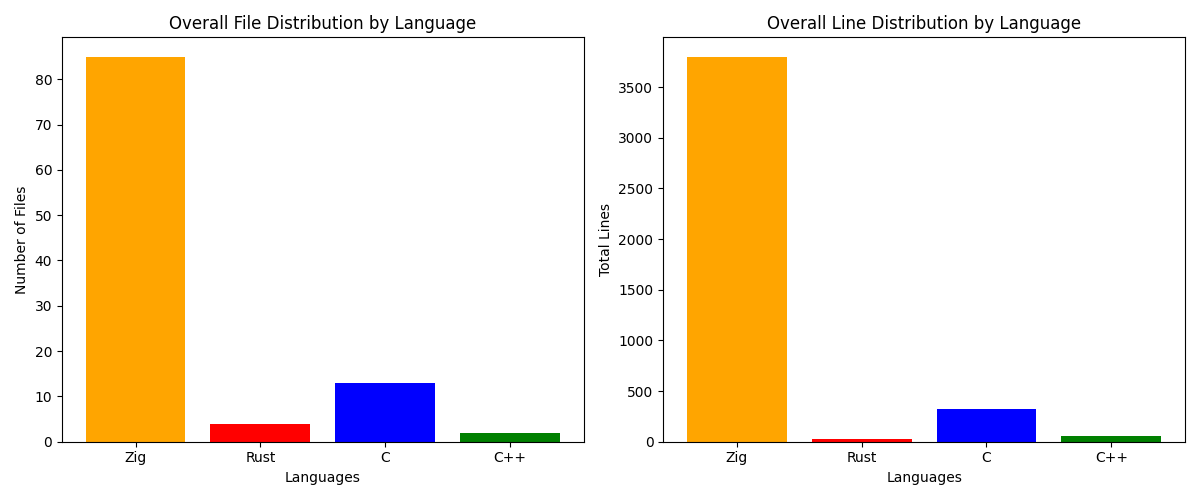
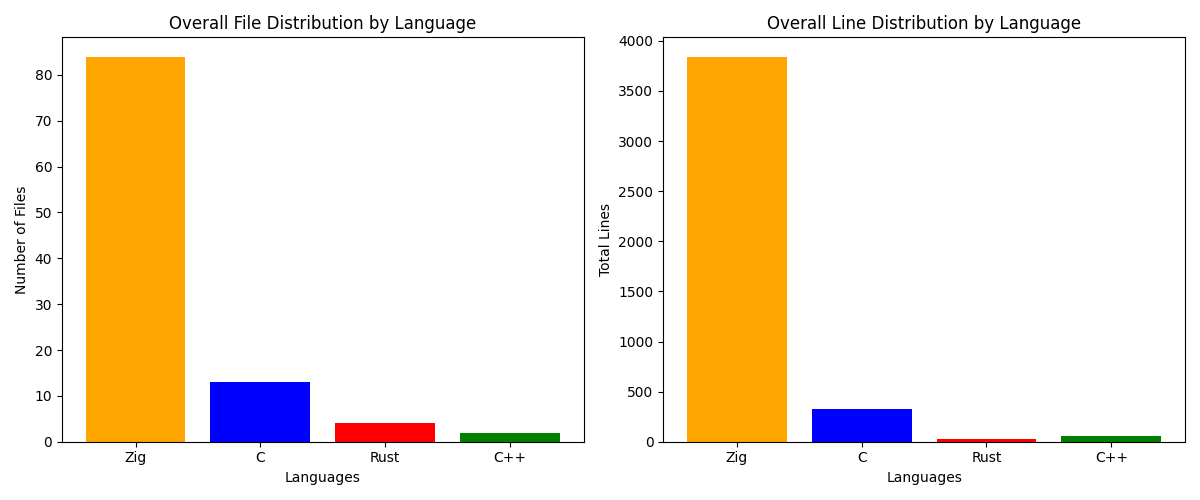
fixed readme

diff --git a/readme.py b/readme.py
@@ -74,18 +74,41 @@ def get_language(file_name):
         return "Rust"
     else:
         return "Unknown"
+    
+def is_cargo_project(directory):
+    cargo_toml_path = os.path.join(directory, "Cargo.toml")
+    return os.path.exists(cargo_toml_path)
+
 
 def list_files_in_directory(directory, language_files):
     for root, _, files in os.walk(directory):
+        # Exclude zig-cache directory
+        if "zig-cache" in root:
+            continue
+
         for file_name in files:
             if file_name.lower() != "makefile":  # Ignore files named "Makefile" (case-insensitive)
                 file_path = os.path.join(root, file_name)
                 language = get_language(file_name)
-                if language != "Unknown":
+
+                # Check if it's a Zig project
+                if is_zig_project(directory) and language == "Zig" and (file_name == "build.zig" or "src" in root):
                     line_count = count_lines(file_path)
                     language_files.setdefault(language, {"files": 0, "lines": 0})
                     language_files[language]["files"] += 1
                     language_files[language]["lines"] += line_count
+                # Check if it's a Rust Cargo project
+                elif is_cargo_project(directory) and language == "Rust" and (file_name == "Cargo.toml" or "src" in root):
+                    line_count = count_lines(file_path)
+                    language_files.setdefault(language, {"files": 0, "lines": 0})
+                    language_files[language]["files"] += 1
+                    language_files[language]["lines"] += line_count
+                elif language != "Unknown":
+                    line_count = count_lines(file_path)
+                    language_files.setdefault(language, {"files": 0, "lines": 0})
+                    language_files[language]["files"] += 1
+                    language_files[language]["lines"] += line_count
+
 
 
 def process_ch_directories(base_directory):
@@ -93,28 +116,43 @@ def process_ch_directories(base_directory):
 
     overall_language_files = {}  # Dictionary to store overall file counts and line counts for each language
 
-    # Find and sort 'ch*' directories by numerical part
-    ch_directories = [d for d in os.listdir(base_directory) if os.path.isdir(os.path.join(base_directory, d))]
-    ch_directories.sort(key=lambda x: int(ch_pattern.match(x).group(1)) if ch_pattern.match(x) else 0)
+    # Initialize chapter_section before the loop
+    chapter_section = "\n\n# Statistics per Chapter\n\n"
 
-    total_files = 0
-    total_lines = 0
+    for chap_num in range(1, 10):
+        chapter = chapters_map.get(chap_num, "")
+        if if_exists(chap_num):
+            chapter_directory = f"ch0{chap_num}" if chap_num < 10 else f"ch{chap_num}"
+            chapter_language_files = {}
+            list_files_in_directory(chapter_directory, chapter_language_files)
 
-    for dir_name in ch_directories:
-        full_directory_path = os.path.join(base_directory, dir_name)
-        print(f"\nProcessing directory: {full_directory_path}")
+            # Calculate chapter statistics
+            chapter_total_files = sum(stats["files"] for stats in chapter_language_files.values())
+            chapter_total_lines = sum(stats["lines"] for stats in chapter_language_files.values())
 
-        if not is_zig_project(full_directory_path):
-            language_files = {}
-            list_files_in_directory(full_directory_path, language_files)
+            # Skip chapters with no files
+            if chapter_total_files > 0:
+                # Add chapter header to the section
+                chapter_section += f"\n## Chapter {chap_num}: {chapter}\n\n"
 
-            # Update overall file counts and line counts for each language
-            for language, stats in language_files.items():
-                overall_language_files.setdefault(language, {"files": 0, "lines": 0})
-                overall_language_files[language]["files"] += stats["files"]
-                overall_language_files[language]["lines"] += stats["lines"]
-                total_files += stats["files"]
-                total_lines += stats["lines"]
+                # Create a markdown table for chapter statistics
+                chapter_table_headers = ["Language", "Number of Files", "Total Lines"]
+                chapter_table_data = []
+
+                # Add language-wise statistics to the table
+                for language, stats in chapter_language_files.items():
+                    chapter_table_data.append([language, stats["files"], stats["lines"]])
+
+                    # Accumulate language statistics to overall_language_files
+                    overall_language_files.setdefault(language, {"files": 0, "lines": 0})
+                    overall_language_files[language]["files"] += stats["files"]
+                    overall_language_files[language]["lines"] += stats["lines"]
+
+                chapter_table_data.append(["**Total**", f'**{chapter_total_files}**', f'**{chapter_total_lines}**'])
+
+                # Add chapter table to the section
+                chapter_section += tabulate(chapter_table_data, headers=chapter_table_headers, tablefmt="pipe", showindex=False)
+                chapter_section += "\n\n"
 
     # Set up colors for each language
     language_colors = {
@@ -151,15 +189,6 @@ def process_ch_directories(base_directory):
     plt.savefig('statistics_plot.png')
     plt.close()
 
-    # Create a markdown table for statistics
-    table_headers = ["Language", "Number of Files", "Total Lines", "Percentage of Total Files", "Percentage of Total Lines"]
-    table_data = []
-    for language, stats in overall_language_files.items():
-        percentage_files = (stats["files"] / total_files) * 100 if total_files > 0 else 0
-        percentage_lines = (stats["lines"] / total_lines) * 100 if total_lines > 0 else 0
-        table_data.append([language, stats["files"], stats["lines"], f"{percentage_files:.2f}%", f"{percentage_lines:.2f}%"])
-
-    markdown_table = tabulate(table_data, headers=table_headers, tablefmt="github")
     with open('README.md', 'w') as readme:
         readme.write(header)
         for chap_num in range(1, 10):
@@ -172,8 +201,8 @@ def process_ch_directories(base_directory):
         readme.write("\n\n# Statistics\n\n")
         readme.write(f"## File and Line Distribution\n\n")
         readme.write(f"![File and Line Distribution Plot](statistics_plot.png)\n\n")
-        readme.write(f"## Table\n\n")
-        readme.write(markdown_table)
+        readme.write(chapter_section)
+
 
 if __name__ == "__main__":
     base_directory = "."

diff --git a/README.md b/README.md
@@ -41,11 +41,74 @@ Rust target: `rustup target add armv7-unknown-linux-gnueabihf`
 
 ![File and Line Distribution Plot](statistics_plot.png)
 
-## Table
 
-| Language   |   Number of Files |   Total Lines | Percentage of Total Files   | Percentage of Total Lines   |
-|------------|-------------------|---------------|-----------------------------|-----------------------------|
-| Zig        |                85 |          3801 | 81.73%                      | 90.33%                      |
-| Rust       |                 4 |            31 | 3.85%                       | 0.74%                       |
-| C          |                13 |           323 | 12.50%                      | 7.68%                       |
-| C++        |                 2 |            53 | 1.92%                       | 1.26%                       |
+
+# Statistics per Chapter
+
+
+## Chapter 1: Introduction
+
+| Language   | Number of Files   | Total Lines   |
+|:-----------|:------------------|:--------------|
+| Zig        | 1                 | 8             |
+| **Total**  | **1**             | **8**         |
+
+
+## Chapter 2: The Basics
+
+| Language   | Number of Files   | Total Lines   |
+|:-----------|:------------------|:--------------|
+| Zig        | 15                | 335           |
+| C          | 1                 | 16            |
+| Rust       | 1                 | 9             |
+| **Total**  | **17**            | **360**       |
+
+
+## Chapter 3: Functions
+
+| Language   | Number of Files   | Total Lines   |
+|:-----------|:------------------|:--------------|
+| Zig        | 13                | 267           |
+| Rust       | 1                 | 16            |
+| C          | 2                 | 43            |
+| C++        | 1                 | 22            |
+| **Total**  | **17**            | **348**       |
+
+
+## Chapter 4: Arrays and Slices
+
+| Language   | Number of Files   | Total Lines   |
+|:-----------|:------------------|:--------------|
+| Zig        | 25                | 454           |
+| C          | 3                 | 123           |
+| **Total**  | **28**            | **577**       |
+
+
+## Chapter 5: Struct, Enums and Unions
+
+| Language   | Number of Files   | Total Lines   |
+|:-----------|:------------------|:--------------|
+| C++        | 1                 | 31            |
+| C          | 3                 | 82            |
+| Zig        | 10                | 232           |
+| **Total**  | **14**            | **345**       |
+
+
+## Chapter 6: Pointers and Memory Management
+
+| Language   | Number of Files   | Total Lines   |
+|:-----------|:------------------|:--------------|
+| Zig        | 17                | 2448          |
+| C          | 3                 | 53            |
+| **Total**  | **20**            | **2501**      |
+
+
+## Chapter 9: Advance Topics
+
+| Language   | Number of Files   | Total Lines   |
+|:-----------|:------------------|:--------------|
+| C          | 1                 | 6             |
+| Zig        | 3                 | 99            |
+| Rust       | 2                 | 6             |
+| **Total**  | **6**             | **111**       |
+
